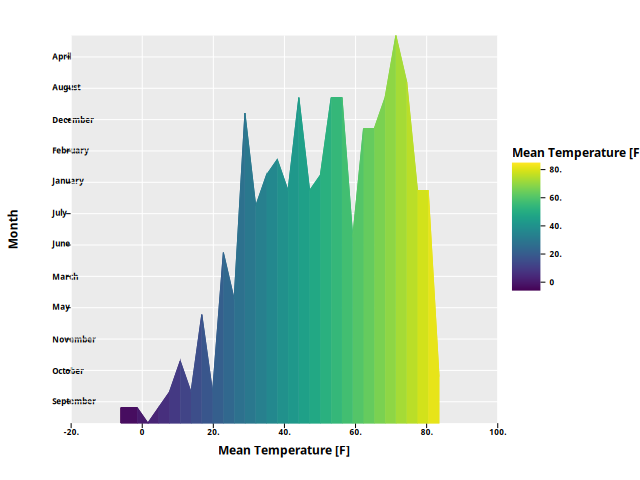
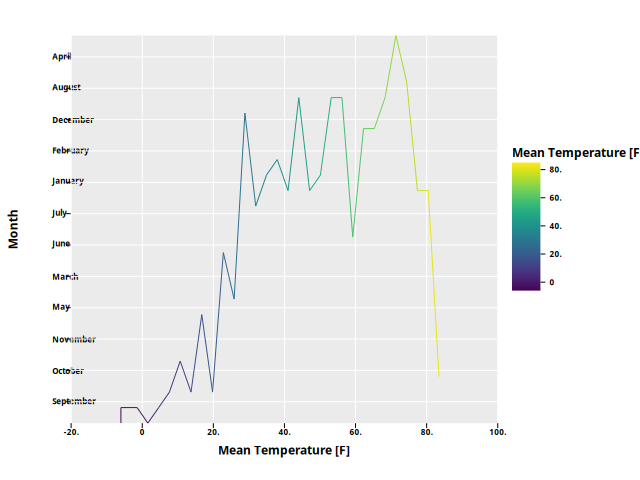
add geom_area

Changed region(s): [[0.1875, 0.0938, 0.6875, 0.9062]]

diff --git a/src/python_ggplot/gg/drawing.py b/src/python_ggplot/gg/drawing.py
@@ -41,6 +41,7 @@ from python_ggplot.graphics.initialize import (
 )
 from python_ggplot.graphics.objects import GOComposite, GraphicsObject
 from python_ggplot.graphics.views import ViewPort
+from tests.test_view import DataCoordType
 
 
 class GetXYContinueException(GGException):
@@ -348,7 +349,7 @@ def get_draw_pos_impl(
     if discrete_type == DiscreteType.DISCRETE:
         if fg_geom_type in {GeomType.POINT, GeomType.ERROR_BAR, GeomType.TEXT}:
             return get_discrete_point()
-        elif fg_geom_type in (GeomType.LINE, GeomType.FREQ_POLY):
+        elif fg_geom_type in (GeomType.LINE, GeomType.FREQ_POLY, GeomType.GEOM_AREA):
             return get_discrete_line(view, ax_kind)
         elif fg_geom_type in (GeomType.HISTOGRAM, GeomType.BAR):
             return get_discrete_histogram(width, ax_kind)
@@ -773,7 +774,7 @@ def _needs_bin_width(geom_type: GeomType, bin_position: Optional[BinPositionType
     return False
 
 
-def _fill_gradient(
+def _fill_area(
     view: ViewPort,
     point_a: Coord,
     point_b: Coord,
@@ -792,7 +793,10 @@ def _fill_gradient(
     b_point = b.point()
     x1, y1 = (a_point.x, a_point.y)
     x2, y2 = (b_point.x, b_point.y)
-    scale_low = a.y.data.scale.low
+    if isinstance(a.y, DataCoordType):
+        scale_low = a.y.data.scale.low
+    else:
+        scale_low = 0.0
 
     fill_points = [
         Point[float](
@@ -893,6 +897,7 @@ def draw_sub_df(
                 bin_widths = (0.0, 0.0)
 
             pos = get_draw_pos(loc_view, view_idx, fg, point, bin_widths, df, i)
+
             if fg.gg_data.geom.gg_data.position in {
                 PositionType.IDENTITY,
                 PositionType.STACK,
@@ -901,6 +906,7 @@ def draw_sub_df(
                     GeomType.LINE,
                     GeomType.FREQ_POLY,
                     GeomType.RASTER,
+                    GeomType.GEOM_AREA,
                 }:
                     line_points.append(pos)
                 elif geom_type == GeomType.HISTOGRAM:
@@ -923,7 +929,7 @@ def draw_sub_df(
     elif geom_type == GeomType.HISTOGRAM:
         line_points = convert_points_to_histogram(df, fg, line_points)
 
-    if geom_type in {GeomType.LINE, GeomType.FREQ_POLY, GeomType.HISTOGRAM}:
+    if geom_type in {GeomType.LINE, GeomType.FREQ_POLY, GeomType.HISTOGRAM, GeomType.GEOM_AREA}:
         if len(styles) == 1:
             current_style = merge_user_style(deepcopy(styles[0]), fg)
             if current_style.fill_color is None:
@@ -935,11 +941,21 @@ def draw_sub_df(
             # if style.fill_color.a == 0.0 or geom_type == GeomType.FREQ_POLY:
             if geom_type == GeomType.FREQ_POLY:
                 line_points = extend_line_to_axis(line_points, AxisKind.X, df, fg)
-
-            poly_line = init_poly_line_from_points(
-                view, [i.point() for i in line_points], deepcopy(current_style)
-            )
-            view.add_obj(poly_line)
+            if geom_type != GeomType.GEOM_AREA:
+                poly_line = init_poly_line_from_points(
+                    view, [i.point() for i in line_points], deepcopy(current_style)
+                )
+                view.add_obj(poly_line)
+            else:
+                line_points = sorted(line_points, key=lambda item: (item.x.pos))
+                print(current_style)
+                for line_point_idx in range(0, len(line_points) - 1):
+                    gradient_poly_line = _fill_area(
+                        view, line_points[line_point_idx],
+                        line_points[line_point_idx + 1],
+                        current_style
+                    )
+                    view.add_obj(gradient_poly_line)
         else:
             # Since we don't support gradients on lines, we just draw from
             # (x1/y1) to (x2/y2) with the style of (x1/x2)
@@ -948,7 +964,7 @@ def draw_sub_df(
                 raise GGException("expected fill color")
             if style.fill_color.a == 0.0 or geom_type == GeomType.FREQ_POLY:
                 line_points = extend_line_to_axis(line_points, AxisKind.X, df, fg)
-
+            line_points = sorted(line_points, key=lambda item: (item.x.pos, item.y.pos))
             for i in range(len(styles) - 1):
                 current_style = merge_user_style(styles[i], fg)
                 poly_line = init_poly_line_from_points(
@@ -957,10 +973,13 @@ def draw_sub_df(
                     deepcopy(current_style),
                 )
                 view.add_obj(poly_line)
-                gradient_poly_line = _fill_gradient(
-                    view, line_points[i], line_points[i + 1], current_style
-                )
-                view.add_obj(gradient_poly_line)
+                if geom_type == GeomType.GEOM_AREA:
+                    gradient_poly_line = _fill_area(
+                        view, line_points[i],
+                        line_points[i + 1],
+                        current_style
+                    )
+                    view.add_obj(gradient_poly_line)
 
     elif geom_type == GeomType.RASTER:
         draw_raster(view, cast(FilledGeomRaster, fg), df)

diff --git a/src/python_ggplot/public_interface/geom.py b/src/python_ggplot/public_interface/geom.py
@@ -19,6 +19,7 @@ from python_ggplot.core.units.objects import Quantity
 from python_ggplot.gg.datamancer_pandas_compat import GGValue
 from python_ggplot.gg.geom.base import (
     Geom,
+    GeomArea,
     GeomBar,
     GeomData,
     GeomErrorBar,
@@ -354,6 +355,63 @@ def geom_line(
     Geom.assign_bin_fields(result, stat_, bins, bin_width, breaks, bin_by_, density)
     return result
 
+
+def geom_area(
+    aes: Optional[Aesthetics] = None,
+    data: Optional[pd.DataFrame] = None,
+    color: PossibleColor = None,
+    size: PossibleFloat = None,
+    line_type: LINE_TYPE_VALUES = "none_type",
+    fill_color: PossibleColor = None,
+    stat: STAT_TYPE_VALUES = "identity",
+    bin_width: float = 0.0,
+    bins: int = -1,
+    breaks: Optional[List[float]] = None,
+    bin_position: BIN_POSITION_VALUES = "none",
+    position: POSITION_VALUES = "identity",
+    bin_by: BIN_BY_VALUES = "full",
+    density: bool = False,
+    alpha: Optional[float] = None,
+) -> "Geom":
+    if breaks is None:
+        breaks = []
+    if data is None:
+        data = pd.DataFrame()
+    if aes is None:
+        aes = Aesthetics()
+
+    df_opt = data if len(data) > 0 else None
+    bin_position_ = BinPositionType.eitem(bin_position)
+    stat_ = StatType.eitem(stat)
+    bin_position_ = BinPositionType.eitem(bin_position)
+    position_ = PositionType.eitem(position)
+    bin_by_ = BinByType.eitem(bin_by)
+    line_type_ = LineType.eitem(line_type)
+
+    style = assign_identity_scales_get_style(
+        aes=aes,
+        p_color=color,
+        p_size=size,
+        p_alpha=alpha,
+        p_fill_color=fill_color,
+        p_line_type=line_type_,
+        p_line_width=size,
+    )
+
+    gid = get_gid()
+    gg_data = GeomData(
+        gid=gid,
+        data=df_opt,
+        user_style=style,
+        aes=fill_ids(aes, {gid}),
+        bin_position=bin_position_,
+        stat_kind=StatKind.create_from_enum(stat_),
+        position=position_,
+    )
+    result = GeomArea(gg_data=gg_data)
+
+    Geom.assign_bin_fields(result, stat_, bins, bin_width, breaks, bin_by_, density)
+    return result
 
 def geom_smooth(
     aes: Optional[Aesthetics] = None,

diff --git a/src/python_ggplot/gg/geom/base.py b/src/python_ggplot/gg/geom/base.py
@@ -24,11 +24,11 @@ from python_ggplot.core.objects import GGEnum, GGException, Scale, Style
 from python_ggplot.core.units.objects import DataUnit
 from python_ggplot.gg.datamancer_pandas_compat import GGValue, VectorCol, VNull
 from python_ggplot.gg.styles.config import (
+    AREA_DEFAULT_STYLE,
     BAR_DEFAULT_STYLE,
     HISTO_DEFAULT_STYLE,
     LINE_DEFAULT_STYLE,
     POINT_DEFAULT_STYLE,
-    RIDGE_DEFAULT_STYLE,
     SMOOTH_DEFAULT_STYLE,
     TEXT_DEFAULT_STYLE,
     TILE_DEFAULT_STYLE
@@ -84,7 +84,7 @@ class GeomType(GGEnum):
     ERROR_BAR = auto()
     TEXT = auto()
     RASTER = auto()
-    RIDGE = auto()
+    GEOM_AREA = auto()
 
 
 @dataclass
@@ -612,6 +612,35 @@ class GeomTile(GeomTileMixin, Geom):
             StatType.DENSITY,
         ]
 
+
+class GeomArea(Geom):
+    @property
+    def allowed_stat_types(self) -> List["StatType"]:
+        return [
+            StatType.IDENTITY,
+            StatType.COUNT,
+            StatType.BIN,
+        ]
+
+    def default_style(self):
+        return deepcopy(AREA_DEFAULT_STYLE)
+
+    @property
+    def geom_type(self) -> GeomType:
+        return GeomType.GEOM_AREA
+
+    def draw_geom(
+        self,
+        view: ViewPort,
+        fg: "FilledGeom",
+        pos: Coord,
+        y: Any,
+        bin_widths: Tuple[float, float],
+        df: pd.DataFrame,
+        idx: int,
+        style: Style,
+    ):
+        raise GGException("Already handled in `draw_sub_df`!")
 
 class GeomLine(Geom):
     @property

diff --git a/tests/test_plots.py b/tests/test_plots.py
@@ -22,6 +22,7 @@ from python_ggplot.public_interface.common import (
     ylab,
 )
 from python_ggplot.public_interface.geom import (
+    geom_area,
     geom_bar,
     geom_error_bar,
     geom_freqpoly,
@@ -421,3 +422,37 @@ def test_freq_poly_weather():
     ) + geom_freqpoly()
     res = ggcreate(plot)
     ggdraw_plot(res, plots_path / "freq_poly_weather.png")
+
+
+def test_geom_area_stat_bin():
+    weather = pd.read_csv(data_path / "lincoln-weather.csv")
+    plot = ggplot(
+        weather, aes(x="Mean Temperature [F]", y="Month", fill="Mean Temperature [F]")
+    ) + geom_area(stat="bin", bins=50)
+    res = ggcreate(plot)
+    ggdraw_plot(res, plots_path / "geom_area_stat_bin.png")
+
+
+def test_geom_area_stat_identity():
+    df = pd.DataFrame({
+        'g': ['a', 'a', 'a', 'b', 'b', 'b'],
+        'x': [1, 3, 5, 2, 4, 6],
+        'y': [2, 5, 1, 3, 6, 7]
+    })
+    plot = ggplot(
+        df, aes(x="x", y="y", fill="g")
+    ) + geom_area(alpha=0.3) + geom_point(size=5)
+    res = ggcreate(plot)
+    ggdraw_plot(res, plots_path / "geom_area_stat_identity.png")
+
+
+def test_geom_area_simple():
+    df = pd.DataFrame({
+        'x': [1, 3, 5, 2, 4, 6],
+        'y': [2, 5, 1, 3, 6, 7]
+    })
+    plot = ggplot(
+        df, aes(x="x", y="y")
+    ) + geom_area(alpha=0.3)
+    res = ggcreate(plot)
+    ggdraw_plot(res, plots_path / "geom_area_simple.png")

diff --git a/src/python_ggplot/gg/styles/config.py b/src/python_ggplot/gg/styles/config.py
@@ -31,6 +31,14 @@ LINE_DEFAULT_STYLE: Style = Style(
     fill_color=TRANSPARENT,
 )
 
+AREA_DEFAULT_STYLE: Style = Style(
+    line_width=0.0,
+    line_type=LineType.NONE_TYPE,
+    size=5.0,
+    color=GREY20,
+    fill_color=GREY20,
+)
+
 SMOOTH_DEFAULT_STYLE: Style = Style(
     line_width=2.0,
     line_type=LineType.SOLID,
@@ -39,14 +47,6 @@ SMOOTH_DEFAULT_STYLE: Style = Style(
     fill_color=TRANSPARENT,
 )
 
-# TODO CRITICAL+ fix this
-RIDGE_DEFAULT_STYLE: Style = Style(
-    line_width=2.0,
-    line_type=LineType.SOLID,
-    size=5.0,
-    color=STAT_SMOOTH_COLOR,
-    fill_color=TRANSPARENT,
-)
 
 BAR_DEFAULT_STYLE: Style = Style(
     line_width=1.0, line_type=LineType.SOLID, color=GREY20, fill_color=GREY20

diff --git a/README.md b/README.md
@@ -155,14 +155,43 @@ ggdraw_plot(res, plots_path / "geom_histogram_fill.png")
 
 
 ```python
+    df = pd.DataFrame({
+        'g': ['a', 'a', 'a', 'b', 'b', 'b'],
+        'x': [1, 3, 5, 2, 4, 6],
+        'y': [2, 5, 1, 3, 6, 7]
+    })
+    plot = ggplot(
+        df, aes(x="x", y="y", fill="g")
+    ) + geom_area(alpha=0.3) + geom_point(size=5)
+    res = ggcreate(plot)
+    ggdraw_plot(res, plots_path / "geom_area_stat_identity.png")
+```
+<img src="plots/geom_area_stat_identity.png?v=1" alt="geom_area_stat_identity" width="400px">
+
+
+```python
     weather = pd.read_csv(data_path / "lincoln-weather.csv")
     plot = ggplot(
         weather, aes(x="Mean Temperature [F]", y="Month", fill="Mean Temperature [F]")
-    ) + geom_freqpoly()
+    ) + geom_area(stat="bin", bins=50)
     res = ggcreate(plot)
-    ggdraw_plot(res, plots_path / "freq_poly_weather.png")
+    ggdraw_plot(res, plots_path / "geom_area_stat_bin.png")
 ```
-<img src="plots/freq_poly_weather.png?v=1" alt="freq_poly_weather" width="400px">
+<img src="plots/geom_area_stat_bin.png?v=1" alt="geom_area_stat_bin" width="400px">
+
+
+```python
+    df = pd.DataFrame({
+        'x': [1, 3, 5, 2, 4, 6],
+        'y': [2, 5, 1, 3, 6, 7]
+    })
+    plot = ggplot(
+        df, aes(x="x", y="y")
+    ) + geom_area(alpha=0.3)
+    res = ggcreate(plot)
+    ggdraw_plot(res, plots_path / "geom_area_simple.png")
+```
+<img src="plots/geom_area_simple.png?v=1" alt="geom_area_simple" width="400px">
 
 
 ```python
